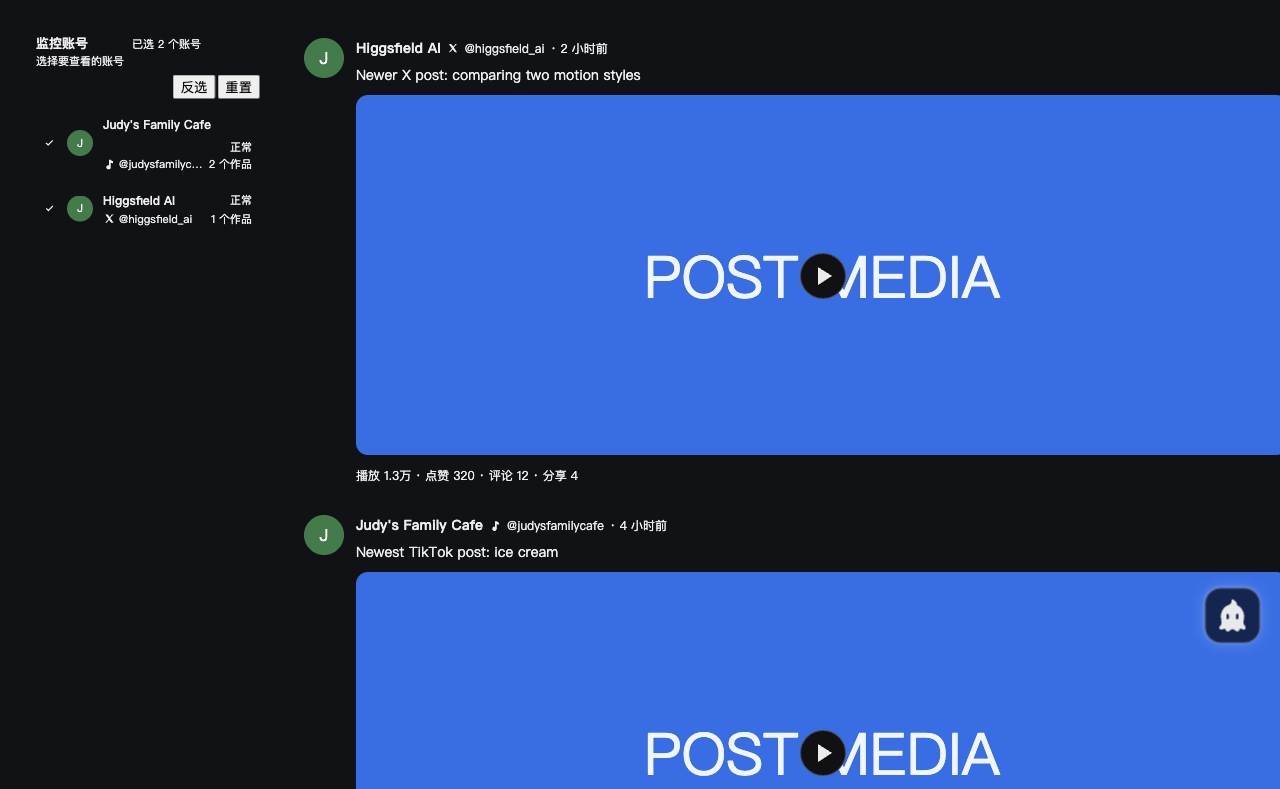
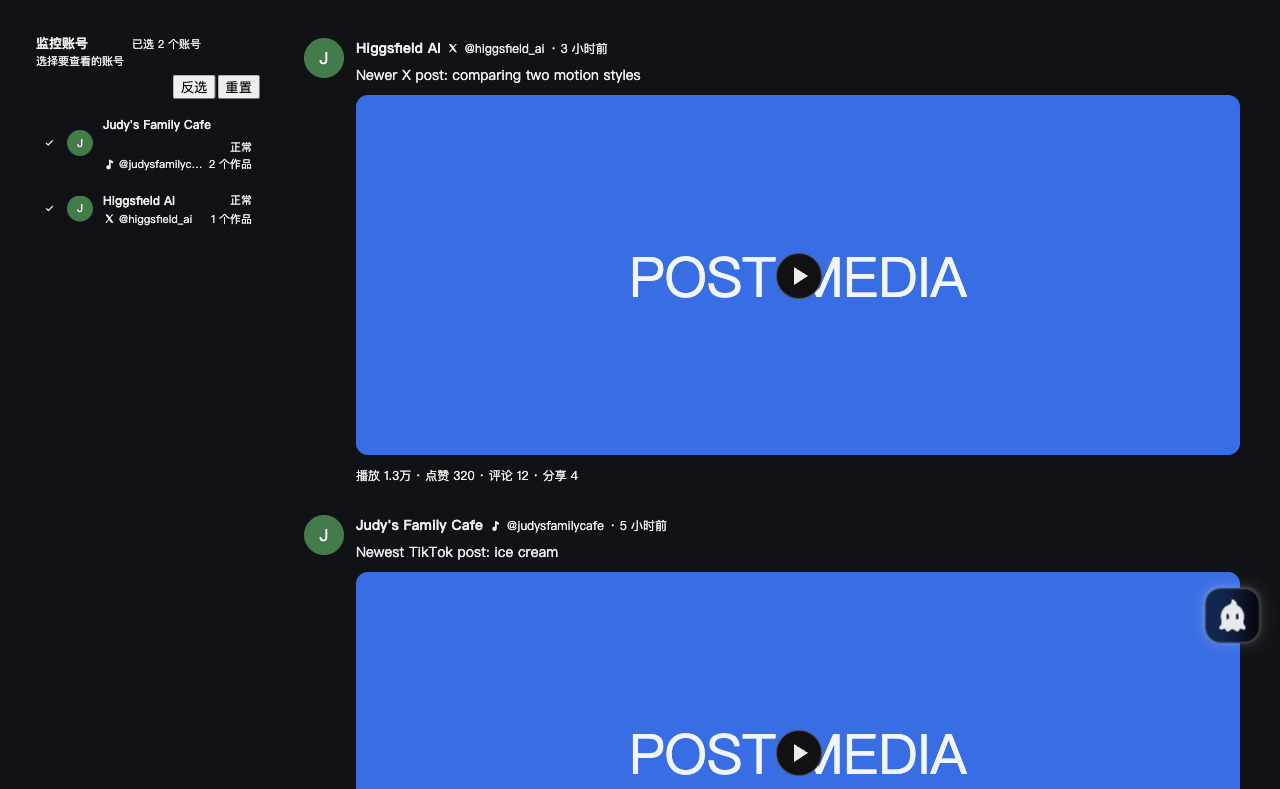
fix(inspiration): 账号监控时间线评审整改 (#3432)
- 分页 sentinel 只在 idle 时触发一次；追加页失败/加载中/错误/首采阶段不再自动重试
- 「标为已处理」恢复本地乐观翻转；状态文案区分已处理/已复刻/已互动 · HH:mm
- 时间线行支持 Enter/Space 打开详情；feed 增加可访问名称；无 hover 设备常显操作
- 窄视口 760/375 真实浏览器断言与截图；无账号时左栏隐藏改用单列布局
- 清理死 props/死文案；spec 与实际纯函数、保留的灵感库共用组件对齐
- 证据更新：两栏 248/968、760→200 两栏、375→单列无横向溢出

diff --git a/plugins/omnimux-inspiration/src/client/RivalAccountsPanel.jsx b/plugins/omnimux-inspiration/src/client/RivalAccountsPanel.jsx
@@ -1,17 +1,15 @@
 /**
  * Right column of the 账号监控 tab: the selected accounts' posts as a timeline.
  *
- * It used to be a two-column workbench — an account column on the left and a
- * post list on the right — and the account dimension now lives in the toolbar's
- * multi-select filter instead. What is left is what the tab is for: the works.
+ * The account column moved back into the content area (#3432): this panel is
+ * the right column, and it owns only what is scoped to it — the timeline, the
+ * import dialog, the detail dialog and the「立即复刻」action.
  *
- * The feed state is mounted by the shell (`use-rival-feed`) because the account
- * column and this timeline read the same numbers; the panel renders the
- * content and owns only what is scoped to it — the import dialog, the detail
- * dialog and the「立即复刻」action.
+ * The feed state is mounted by the shell (`use-rival-feed`) because the left
+ * account column and this timeline read the same numbers.
  */
 
-import { useCallback, useEffect, useState } from 'react'
+import { useCallback, useEffect, useMemo, useState } from 'react'
 import { RivalFeedGrid } from './RivalFeedGrid.jsx'
 import { RivalTimeline } from './RivalTimeline.jsx'
 import { RivalImportDialog } from './RivalImportDialog.jsx'
@@ -29,9 +27,8 @@ import { injectRivalTokens } from './rival-tokens.js'
 /**
  * Platform filter options, built from the module's own platform names.
  *
- * Exported because the shell renders this dropdown: the account filter and the
- * platform filter that narrows the same grid have to offer the platforms in the
- * same order.
+ * Exported because the shell renders this dropdown: the platform filter and the
+ * account column have to offer the platforms in the same order.
  */
 export function buildRivalPlatformOptions(t) {
   return [
@@ -65,6 +62,9 @@ export function RivalAccountsPanel(props) {
   const [notice, setNotice] = useState(null)
   const [busyId, setBusyId] = useState(null)
   const [deconstructBusyId, setDeconstructBusyId] = useState(null)
+  // Optimistic「已处理」set: the POST is asynchronous and the row must flip the
+  // moment the user clicks it, exactly like the retired grid did (#3432 review).
+  const [doneIds, setDoneIds] = useState(() => new Set())
 
   useEffect(() => {
     injectRivalStyles()
@@ -167,22 +167,38 @@ export function RivalAccountsPanel(props) {
   }, [busyId])
 
   /**
-   * 「标为已处理」的当前回执：#3114 的端点还没有接上，所以本票只给出
-   * 「动作已被记录」的通知；卡片的 is-done 视觉翻转由 grid 本地完成。
+   * 「标为已处理」：先做本地乐观翻转（行立即 is-done、按钮消失），再提交
+   * 端点；提交失败时保留本地状态直到下次整页重读，与旧 grid 的交互一致。
    */
   const handleMarkDone = useCallback(async (card) => {
     const accountId = String(card?.account_id || card?.account?.id || '')
     const postId = String(card?.post_id || card?.id || '')
+    const ticket = String(card?.id || '')
+    if (ticket) setDoneIds((previous) => {
+      if (previous.has(ticket)) return previous
+      const next = new Set(previous)
+      next.add(ticket)
+      return next
+    })
     setNotice({ key: 'rivalFeed.toast.markDone' })
     if (!accountId || !postId) return
     try {
       await markRivalPostDone(accountId, postId)
     } catch {
-      // 本地存储写入异常时静默或保持乐观测状态，不打扰用户
+      // The optimistic state stands until the next full reload; the toast has
+      // already said the action was recorded.
     }
   }, [])
 
   const emptyKind = feedEmptyKind(feed)
+
+  // Merge the optimistic「已处理」set over the Host cards without mutating them.
+  const timelineCards = useMemo(() => {
+    if (doneIds.size === 0) return feed.cards
+    return feed.cards.map((card) => (
+      doneIds.has(String(card?.id ?? '')) ? { ...card, done: true, state: 'done' } : card
+    ))
+  }, [feed.cards, doneIds])
 
   /**
    * The only notice this panel still owns is a failed 复刻 — the answer to the
@@ -223,11 +239,12 @@ export function RivalAccountsPanel(props) {
 
       {feed.cards.length > 0 ? (
         <RivalTimeline
-          cards={feed.cards}
+          cards={timelineCards}
           t={t}
           busyId={busyId}
           hasMore={feed.hasMore === true}
           loadingMore={feed.loadingMore === true}
+          canLoadMore={feed.hasMore === true && feed.loadingMore !== true && feed.loading !== true && !feed.error && !feed.fetchPhase}
           onLoadMore={feed.loadMore}
           onDetail={handleDetail}
           onReplicate={handleReplicate}
@@ -239,7 +256,6 @@ export function RivalAccountsPanel(props) {
           t={t}
           cards={feed.cards}
           loading={feed.loading}
-          loadingMore={feed.loadingMore}
           emptyKind={emptyKind}
           fetchPhase={feed.fetchPhase}
           refreshBusy={feed.refreshBusy}
@@ -247,11 +263,6 @@ export function RivalAccountsPanel(props) {
           onImport={() => setImportOpen(true)}
           onRetryFetch={feed.retryFetch}
           onBrowseTrend={onBrowseTrend}
-          onDetail={handleDetail}
-          onReplicate={handleReplicate}
-          onDeconstruct={handleDeconstruct}
-          onMarkDone={handleMarkDone}
-          replicateBusy={busyId}
         />
       )}
 

diff --git a/plugins/omnimux-inspiration/src/client/RivalTimeline.jsx b/plugins/omnimux-inspiration/src/client/RivalTimeline.jsx
@@ -16,6 +16,7 @@ import { RivalTimelineRow } from './RivalTimelineRow.jsx'
  *   busyId?: string | null,
  *   hasMore?: boolean,
  *   loadingMore?: boolean,
+ *   canLoadMore?: boolean,
  *   onLoadMore?: () => void,
  *   onDetail?: (card: Record<string, any>) => void,
  *   onReplicate?: (card: Record<string, any>) => void,
@@ -25,28 +26,39 @@ import { RivalTimelineRow } from './RivalTimelineRow.jsx'
  */
 export function RivalTimeline(props) {
   const {
-    cards, t, busyId, hasMore = false, loadingMore = false, onLoadMore,
+    cards, t, busyId, hasMore = false, loadingMore = false, canLoadMore, onLoadMore,
     onDetail, onReplicate, onDeconstruct, onMarkDone,
   } = props
   const sentinelRef = useRef(null)
   const rows = sortTimelineRows(cards)
 
+  // The sentinel must only fetch while the previous page is idle. Without the
+  // idle gate a failed append page (hasMore stays true, page unchanged) would
+  // re-arm the observer on every loadingMore flip and retry until the hook's
+  // request budget runs out (#3432 review P1). Loading once per idle window is
+  // also what keeps an intersection from firing twice for one page.
+  const idle = canLoadMore === undefined
+    ? hasMore && !loadingMore && typeof onLoadMore === 'function'
+    : canLoadMore
   useEffect(() => {
     const node = sentinelRef.current
-    if (!node || !hasMore || typeof onLoadMore !== 'function') return undefined
+    if (!node || !idle || typeof onLoadMore !== 'function') return undefined
     if (typeof IntersectionObserver !== 'function') return undefined
     const observer = new IntersectionObserver((entries) => {
-      if (entries.some((entry) => entry.isIntersecting)) onLoadMore()
+      if (!entries.some((entry) => entry.isIntersecting)) return
+      observer.disconnect()
+      onLoadMore()
     }, { rootMargin: '240px 0px' })
     observer.observe(node)
     return () => observer.disconnect()
-  }, [hasMore, onLoadMore, rows.length])
+  }, [idle, onLoadMore, rows.length])
 
   return (
     <div
       className="omnimux-rival-timeline"
       data-rival-timeline="true"
       role="feed"
+      aria-label={t('tab.rivals')}
       aria-busy={loadingMore ? 'true' : 'false'}
     >
       {rows.map((card) => (
@@ -68,7 +80,7 @@ export function RivalTimeline(props) {
           ))}
         </div>
       ) : null}
-      {hasMore && typeof onLoadMore === 'function' ? (
+      {idle ? (
         <div className="omnimux-rival-timeline-sentinel" ref={sentinelRef} aria-hidden="true" />
       ) : null}
     </div>

diff --git a/plugins/omnimux-inspiration/src/client/RivalTimelineRow.jsx b/plugins/omnimux-inspiration/src/client/RivalTimelineRow.jsx
@@ -19,7 +19,7 @@ import {
   rivalLocaleOf,
 } from './rival-format.js'
 import { isSafeExternalUrl, openExternalUrl } from './open-url.js'
-import { timelineBody, timelineInitial } from './rival-timeline.js'
+import { timelineBody, timelineInitial, timelineStateText } from './rival-timeline.js'
 
 /**
  * @param {{
@@ -56,7 +56,7 @@ export function RivalTimelineRow(props) {
     .replace('{shares}', formatEngagementCount(stats.shares, locale))
   const originalSafe = isSafeExternalUrl(card?.source_url)
   const done = Boolean(card?.done || card?.done_at || card?.in_library || card?.interacted_at || card?.state || card?.state_label)
-  const stateLabel = String(card?.state_label || '')
+  const stateLabel = timelineStateText(card, t)
   const showAvatar = Boolean(account.avatar_url || card?.avatar_url) && !avatarFailed
 
   const stop = (event) => {
@@ -77,7 +77,7 @@ export function RivalTimelineRow(props) {
       aria-label={`${authorName} · ${posted}`}
       onClick={openDetail}
       onKeyDown={(event) => {
-        if (event.key === 'Enter' && event.target === event.currentTarget) {
+        if ((event.key === 'Enter' || event.key === ' ') && event.target === event.currentTarget) {
           event.preventDefault()
           openDetail()
         }
@@ -97,7 +97,7 @@ export function RivalTimelineRow(props) {
           </span>
           {handle ? <span className="omnimux-rival-timeline-handle">{handle}</span> : null}
           <span className="omnimux-rival-timeline-time">· {posted}</span>
-          {done ? <span className="omnimux-rival-timeline-state">{stateLabel || t('rivalFeed.card.done')}</span> : null}
+          {stateLabel ? <span className="omnimux-rival-timeline-state">{stateLabel}</span> : null}
         </header>
 
         {body ? <p className="omnimux-rival-timeline-body">{body}</p> : null}

diff --git a/plugins/omnimux-inspiration/src/client/rival-timeline.test.js b/plugins/omnimux-inspiration/src/client/rival-timeline.test.js
@@ -1,6 +1,6 @@
 import assert from 'node:assert/strict'
 import { describe, it } from 'node:test'
-import { sortTimelineRows, timelineBody, timelineInitial } from './rival-timeline.js'
+import { sortTimelineRows, timelineBody, timelineInitial, timelineStateText } from './rival-timeline.js'
 
 /**
  * Pure rules of the account-monitor timeline (#3432). The page-level gate
@@ -56,5 +56,19 @@ describe('rival-timeline: row text (#3432)', () => {
     assert.equal(timelineInitial({ account: { nickname: 'Judy Cafe' } }), 'J')
     assert.equal(timelineInitial({ account: { handle: '@gethullo' } }), 'G')
     assert.equal(timelineInitial({}), '?')
+  })
+})
+
+describe('rival-timeline: processed-state text (#3432 review)', () => {
+  const t = (key) => ({ 'rivalFeed.card.done': '已处理', 'rivalFeed.card.replicated': '已复刻', 'rivalFeed.card.interacted': '已互动 · {time}' }[key] || key)
+
+  it('keeps the wire flags distinguishable instead of collapsing them to 已处理', () => {
+    assert.equal(timelineStateText({ done_at: '2026-10-20T01:00:00Z' }, t), '已处理')
+    assert.equal(timelineStateText({ in_library: true }, t), '已复刻')
+    assert.equal(timelineStateText({ state: 'replicated' }, t), '已复刻')
+    const interacted = timelineStateText({ interacted_at: '2026-10-20T03:05:00Z' }, t)
+    assert.match(interacted, /^已互动 · \d{2}:\d{2}$/)
+    assert.equal(timelineStateText({ state_label: '自定义' }, t), '自定义')
+    assert.equal(timelineStateText({}, t), '')
   })
 })

diff --git a/plugins/omnimux-inspiration/src/client/rival-timeline.js b/plugins/omnimux-inspiration/src/client/rival-timeline.js
@@ -46,3 +46,25 @@ export function timelineInitial(row) {
   const chars = [...name.replace(/^@/, '')]
   return chars.length > 0 ? chars[0].toUpperCase() : '?'
 }
+
+/**
+ * Fourth-slot state text of a processed row: 已处理 / 已复刻 / 已互动 · HH:mm.
+ * Mirrors the retired card's mapping so the wire's flags keep their meaning.
+ * @param {Record<string, any>} card
+ * @param {(key: string) => string} t
+ * @returns {string}
+ */
+export function timelineStateText(card, t) {
+  const label = String(card?.state_label || '')
+  if (label) return label
+  if (card?.done_at || card?.state === 'done') return String(t('rivalFeed.card.done'))
+  if (card?.state === 'replicated' || card?.in_library) return String(t('rivalFeed.card.replicated'))
+  if (card?.state === 'interacted' || card?.interacted_at) {
+    const at = Date.parse(String(card?.interacted_at || ''))
+    const template = String(t('rivalFeed.card.interacted'))
+    if (!Number.isFinite(at)) return template.replace(/\s*·\s*\{time\}/, '')
+    const date = new Date(at)
+    return template.replace('{time}', `${String(date.getHours()).padStart(2, '0')}:${String(date.getMinutes()).padStart(2, '0')}`)
+  }
+  return ''
+}

diff --git a/plugins/omnimux-inspiration/src/client/account-monitor-feed-render.test.js b/plugins/omnimux-inspiration/src/client/account-monitor-feed-render.test.js
@@ -652,6 +652,17 @@ describe('账号监控 — 作品网格流', () => {
       assert.deepEqual(actions, ['original', 'replicate', 'deconstruct', 'markDone'], 'the hover row must carry every monitor action through the real panel wiring')
       assert.ok(first.textContent.includes(L.replicate), 'the replicate action must read 立即复刻')
 
+      // 「标为已处理」must flip the row optimistically (#3432 review P2-1).
+      await mounted.click(first.querySelector('[data-act="markDone"]'))
+      await settle(mounted.container, () => first.classList.contains('is-done'))
+      assert.equal(first.classList.contains('is-done'), true, 'mark-done must flip the row without a reload')
+      assert.equal(first.querySelector('[data-act="markDone"]'), null, 'a processed row must not offer mark-done twice')
+      assert.equal(
+        first.querySelector('.omnimux-rival-timeline-state')?.textContent,
+        zh['rivalFeed.card.done'],
+        'the processed row must name its state',
+      )
+
       // The browse-summary line was retired (#3430): the page leads straight
       // into the timeline, and neither the row nor its copy may return.
       assert.equal(

diff --git a/plugins/omnimux-inspiration/src/client/InspirationSection.jsx b/plugins/omnimux-inspiration/src/client/InspirationSection.jsx
@@ -577,7 +577,8 @@ export function InspirationSection({ t, active }) {
         </div>
       ) : null}
       {rivalTab ? (
-        <div className="omnimux-rival-layout">
+        <div className={`omnimux-rival-layout${rivalFeed.accounts.length === 0 ? ' is-single' : ''}`}>
+          {rivalFeed.accounts.length > 0 ? (
           <RivalAccountColumn
             t={t}
             accounts={rivalFeed.accounts}
@@ -590,12 +591,11 @@ export function InspirationSection({ t, active }) {
             quotaLeft={rivalQuota?.left}
             refreshBusy={rivalFeed.refreshBusy}
           />
+          ) : null}
           <div className="omnimux-rival-content">
             <RivalAccountsPanel
               t={t}
               active={active !== false}
-              query={rivalQuery}
-              platform={rivalPlatform}
               feed={{ ...rivalFeed, query: rivalQuery, platform: rivalPlatform }}
               onImported={(item) => {
                 void reloadRivalFeed()

diff --git a/plugins/omnimux-inspiration/src/client/rival-styles.js b/plugins/omnimux-inspiration/src/client/rival-styles.js
@@ -864,6 +864,9 @@ export const RIVAL_CSS = `
   width: 100%;
   align-items: start;
 }
+.omnimux-rival-layout.is-single {
+  grid-template-columns: minmax(0, 1fr);
+}
 .omnimux-rival-content {
   min-width: 0;
 }
@@ -1093,6 +1096,11 @@ export const RIVAL_CSS = `
 .omnimux-rival-timeline-item:hover .omnimux-rival-timeline-actions,
 .omnimux-rival-timeline-item:focus-within .omnimux-rival-timeline-actions {
   opacity: 1;
+}
+@media (hover: none) {
+  .omnimux-rival-timeline-actions {
+    opacity: 1;
+  }
 }
 .omnimux-rival-timeline-act {
   font-size: 12px;

diff --git a/specs/3432-monitor-timeline-layout.spec.md b/specs/3432-monitor-timeline-layout.spec.md
@@ -21,11 +21,11 @@ base: 87e7c83bb76cb6feef642b453b95045f8d30b575
 
 - 新增 `RivalAccountColumn`：复用账号筛选行（`AccountFilterRow` 由 `RivalAccountFilter` 导出）渲染常驻左栏；头部展示标题、选择摘要、反选/重置。
 - 新增 `RivalTimeline` / `RivalTimelineRow`：单列列表；行内元素按平台原生卡片组织（头像/昵称/handle/平台标记/时间/正文/媒体/互动指标 + 悬停操作）；媒体加载失败时隐藏媒体块；已处理态弱化。
-- 新增纯函数模块 `rival-timeline.js`：`sortTimelineRows`（posted_at 倒序，id 兜底）与 `toTimelineRow`（补齐文本、正文、头像、媒体、互动字段）。
+- 新增纯函数模块 `rival-timeline.js`：`timelineTimestamp` / `sortTimelineRows`（posted_at 倒序，不可读时间沉底、id 兜底）、`timelineBody`、`timelineInitial`、`timelineStateText`（已处理/已复刻/已互动文案）。
 - `InspirationSection`：rivals tab 内容改为 `.omnimux-rival-layout` 两栏；工具栏删除 `RivalAccountFilter` 与排序下拉；`useRivalFeed` 排序固定 `latest`。
-- `RivalAccountsPanel`：有帖子时渲染时间线（含追加 sentinel），无帖子时沿用现有空态/骨架/首采进度；`RivalFeedGrid` 仅保留状态渲染职责。
+- `RivalAccountsPanel`：有帖子时渲染时间线（含追加 sentinel，且只在 idle 时触发一次；失败不自动重试），「标为已处理」做本地乐观翻转，状态文案区分已处理/已复刻/已互动；无帖子时沿用现有空态/骨架/首采进度。
 - `toRivalCardRow` 增补 `text`、`avatar_url`、`account.avatar_url`（additive，不影响其它消费者）。
-- 删除账号监控不再使用的 `RivalMasonry.jsx`、`RivalPostCard.jsx`、`rival-masonry.js`、`RivalAccountFilter` 弹层 UI 及其测试；`RivalFeedGrid` 去掉卡片/瀑布流渲染。
+- 账号监控不再消费 `RivalMasonry` / `RivalPostCard` / `rival-masonry.js`；它们仍被灵感库消费，保留组件与单测。`RivalAccountFilter` 退役 trigger/panel 与相关文案/样式删除，只保留可复用的账号行；`RivalFeedGrid` 去掉卡片/瀑布流渲染，只保留空态/骨架/首采进度。
 - `rival-styles.js`：删除瀑布流/卡片/筛选弹层样式，新增两栏与时间线样式；响应式窄视口左栏收窄、不横向溢出。
 
 ## 验收用例
@@ -38,7 +38,9 @@ base: 87e7c83bb76cb6feef642b453b95045f8d30b575
 | A4 | 行元素 | 头像/首字母、昵称、handle、平台标记、相对时间、正文、媒体（如有）、播放/点赞/评论/分享；悬停操作可用 |
 | A5 | 空态/首采/加载 | 沿用现有空态、骨架与首采进度 |
 | A6 | 其他 Tab | 灵感库、爆款趋势不受影响 |
-| A7 | 窄视口 | 无横向溢出，左栏宽 200–280px 或堆叠 |
+| A7 | 窄视口 760px / 375px | 760px 时左栏 200px、两栏；375px 时堆叠单列；无横向溢出 |
+| A8 | 追加页失败 | sentinel 暂停，不自动重复请求；恢复后可由下一次 idle 继续 |
+| A9 | 标为已处理 | 点击后行立即 is-done、按钮消失，状态文案按已处理/已复刻/已互动区分 |
 
 ## 验证
 

diff --git a/.agent-reports/inspiration-monitor-timeline-3432/report.md b/.agent-reports/inspiration-monitor-timeline-3432/report.md
@@ -14,9 +14,10 @@
 
 ## 真实浏览器证据（隔离工作树）
 
-- 真实 `RivalAccountColumn` + `RivalAccountsPanel` 放在 `.omnimux-rival-layout` 两栏中，使用真实 `toggleAccountSelection`；localhost 动态端口 64107，ego-browser 真实 Chromium。
-- 初始：布局 `248px 1016px`；账号 2 行且默认全勾选；时间线 3 条且按发布时间倒序（`riv_higgs:2 → riv_judy:3 → riv_judy:1`）；首行头像/媒体自然宽 > 0、播放标记、正文、相对时间、播放/点赞/评论/分享与 4 个操作（原帖/立即复刻/AI 解构/标为已处理）齐全。
+- 真实 `RivalAccountColumn` + `RivalAccountsPanel` 放在 `.omnimux-rival-layout` 两栏中，使用真实 `toggleAccountSelection`；localhost 动态端口 59965，ego-browser 真实 Chromium。
+- 初始（响应式宿主，1280 视口）：布局 `248px 968px`；账号 2 行且默认全勾选；时间线 3 条且按发布时间倒序（`riv_higgs:2 → riv_judy:3 → riv_judy:1`）；首行头像/媒体自然宽 > 0、播放标记、正文、相对时间、播放/点赞/评论/分享与 4 个操作按钮（原帖/立即复刻/AI 解构/标为已处理；默认 hover/focus 显示，触屏媒体查询常显）。
 - 取消勾选 X 账号：账号行 1 行勾选，右栏只剩 2 条 TikTok 帖；点重置：恢复 2 行勾选与 3 条帖。
+- 窄视口：760px 时两栏（`200px 500px`，左栏 200px），375px 时堆叠单列（`327px`）且 `scrollOverflow=0`；截图 `browser-timeline-narrow-760-3432.png`、`browser-timeline-narrow-375-3432.png`。
 - 截图：`browser-timeline-initial-3432.png`、`browser-timeline-filtered-3432.png`；结构化事实：`browser-facts.json`。
 - 限制：组件级真实浏览器证据，不证明完整 Stage 外壳；外壳装配由隔离 worktree 的 jsdom page 门禁与后续 Dev 页面覆盖。
 
@@ -24,12 +25,12 @@
 
 | 检查 | 实际结果 |
 | --- | --- |
-| 插件核心套件（含新增时间线纯函数/渲染/page e2e） | 1631 项，1631 通过，0 失败，0 skip，0 外连 |
+| 插件核心套件（含新增时间线纯函数/渲染/page e2e） | 1632 项，1632 通过，0 失败，0 skip，0 外连 |
 | `src/explore` 套件 | 261 项全部通过 |
 | `node scripts/verify-stage-contracts.mjs` | PASS（14 Stage / 8 sidebar） |
 | `node --test scripts/verify-anti-slop.test.mjs` | 3/3 通过 |
 | `node scripts/scan-ui-gates.mjs` | 退出 1；与 main 同为 8 条既有违规（均在其它插件），inspiration 0 条；新时间线媒体遮罩已改用 media token |
-| `node scripts/build-client.mjs` | 成功，`lib/client.js` 2,385,122 bytes（gitignored） |
+| `node scripts/build-client.mjs` | 成功，`lib/client.js` 2,384,359 bytes（gitignored） |
 | `node scripts/impact-matrix.mjs --git-diff --base origin/main` | `isUiChange=true`、`browser.required=true` |
 
 ## 边界
